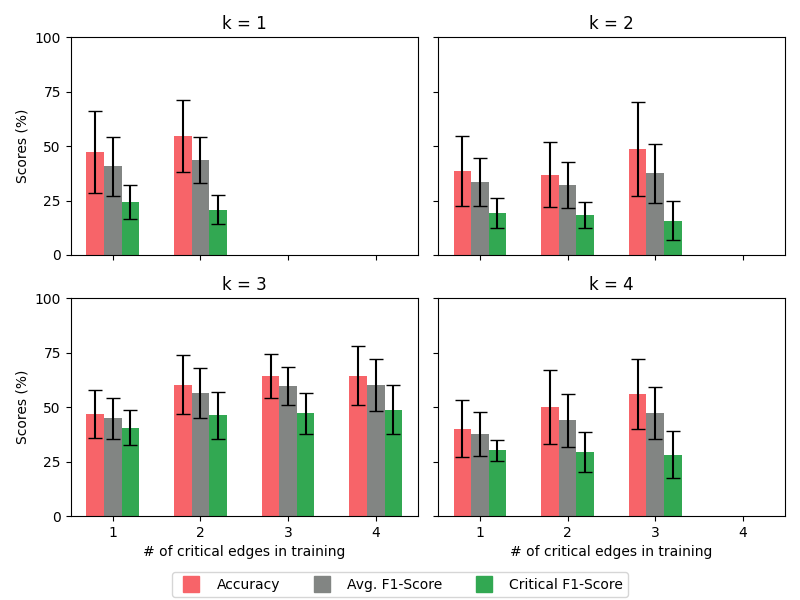
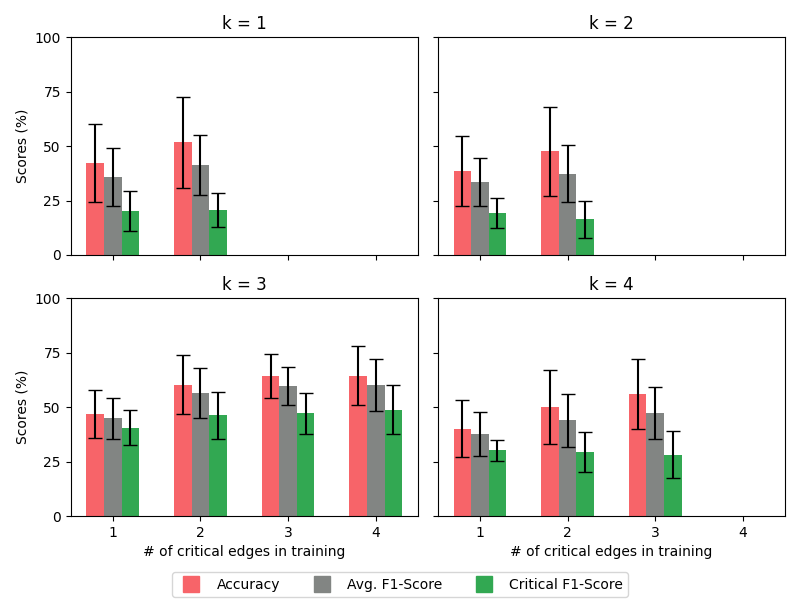
more plots

diff --git a/visualize_by_split_and_k_ieee118_classifier.py b/visualize_by_split_and_k_ieee118_classifier.py
@@ -3,7 +3,7 @@ import numpy as np
 import matplotlib.pyplot as plt
 from matplotlib.lines import Line2D
 
-arq = "a2_ieee39"
+arq = "a2_ieee118"
 metric_cols = ["accuracy", "macro avg_f1-score", "critical_f1-score"]
 legends = ["Accuracy", "Avg. F1-Score", "Critical F1-Score"]
 colors = [
@@ -19,42 +19,42 @@ df = pd.read_csv(f"./result_{arq}.csv", index_col=0)
 fig, axs = plt.subplots(2, 2, figsize=(8, 6), sharex=True, sharey=True)
 
 # Edges by split table
-# 0.1: [1, 1, 1, 1]
-# 0.2: [1, 1, 2, 1]
-# 0.3: [1, 1, 2, 2]
-# 0.4: [2, 2, 3, 2]
-# 0.5: [2, 2, 4, 3]
+# 0.1: [1]
+# 0.2: [1]
+# 0.3: [1]
+# 0.4: [1]
+# 0.5: [1]
 
-# Used for A1 Approach
+# Used for A1 approach
 # splits_by_k = {
-#     1: [0.2, 0.5],
-#     2: [0.1, 0.5],
-#     3: [0.1, 0.2, 0.4, 0.5],
-#     4: [0.1, 0.3, 0.5],
+#     1: [0.1, 0.2, 0.3, 0.4, 0.5],
+#     2: [0.1, 0.2, 0.3, 0.4, 0.5],
+#     3: [0.1, 0.2, 0.5],
+#     4: [0.1, 0.2, 0.5],
 # }
 # labels_by_k = {
-#     1: [1, 2],
-#     2: [1, 2],
-#     3: [1, 2, 3, 4],
+#     1: [1, 2, 3, 4, 5],
+#     2: [1, 2, 3, 4, 5],
+#     3: [1, 2, 3],
 #     4: [1, 2, 3],
 # }
+# xticks = [1, 2, 3, 4, 5]
 
-# Used for A2 Approach
+# Used for A2 approach
 splits_by_k = {
-    1: [0.3, 0.4],
-    2: [0.1, 0.4],
-    3: [0.1, 0.3, 0.4, 0.5],
-    4: [0.2, 0.3, 0.5],
+    1: [0.4],
+    2: [0.1],
+    3: [0.5],
+    4: [0.2],
 }
 labels_by_k = {
-    1: [1, 2],
-    2: [1, 2],
-    3: [1, 2, 3, 4],
-    4: [1, 2, 3],
+    1: [1],
+    2: [1],
+    3: [1],
+    4: [1],
 }
 
-
-xticks = [1, 2, 3, 4]
+xticks = [1]
 for i, k in enumerate([1, 2, 3, 4]):
     ix = i // 2
     iy = i % 2
@@ -66,7 +66,6 @@ for i, k in enumerate([1, 2, 3, 4]):
         ]
         means = [v.mean() for v in values]
         errors = [v.std() for v in values]
-
         bar_pos = np.array(labels_by_k[k]) - width / 2.0
         axs[ix, iy].bar(
             bar_pos + (j + 0.5) * width / len(metric_cols),
@@ -102,7 +101,6 @@ fig.legend(
 )
 plt.subplots_adjust(bottom=0.140)
 plt.savefig(f"visual_{arq}_metrics.png")
-
 
 for i, k in enumerate([1, 2, 3, 4]):
     labels = labels_by_k[k]

diff --git a/visualize_by_split_and_k_ieee300_classifier.py b/visualize_by_split_and_k_ieee300_classifier.py
@@ -3,7 +3,7 @@ import numpy as np
 import matplotlib.pyplot as plt
 from matplotlib.lines import Line2D
 
-arq = "a2_ieee39"
+arq = "a2_ieee300"
 metric_cols = ["accuracy", "macro avg_f1-score", "critical_f1-score"]
 legends = ["Accuracy", "Avg. F1-Score", "Critical F1-Score"]
 colors = [
@@ -19,42 +19,42 @@ df = pd.read_csv(f"./result_{arq}.csv", index_col=0)
 fig, axs = plt.subplots(2, 2, figsize=(8, 6), sharex=True, sharey=True)
 
 # Edges by split table
-# 0.1: [1, 1, 1, 1]
-# 0.2: [1, 1, 2, 1]
-# 0.3: [1, 1, 2, 2]
-# 0.4: [2, 2, 3, 2]
-# 0.5: [2, 2, 4, 3]
+# 0.1: [1]
+# 0.2: [1]
+# 0.3: [1]
+# 0.4: [1]
+# 0.5: [1]
 
-# Used for A1 Approach
+# Used for A1 approach
 # splits_by_k = {
-#     1: [0.2, 0.5],
-#     2: [0.1, 0.5],
-#     3: [0.1, 0.2, 0.4, 0.5],
-#     4: [0.1, 0.3, 0.5],
+#     1: [0.1, 0.2, 0.3, 0.4, 0.5],
+#     2: [0.1, 0.2, 0.3, 0.4, 0.5],
+#     3: [0.1, 0.2, 0.5],
+#     4: [0.1, 0.2, 0.5],
 # }
 # labels_by_k = {
-#     1: [1, 2],
-#     2: [1, 2],
-#     3: [1, 2, 3, 4],
+#     1: [1, 2, 3, 4, 5],
+#     2: [1, 2, 3, 4, 5],
+#     3: [1, 2, 3],
 #     4: [1, 2, 3],
 # }
+# xticks = [1, 2, 3, 4, 5]
 
-# Used for A2 Approach
+# Used for A2 approach
 splits_by_k = {
-    1: [0.3, 0.4],
-    2: [0.1, 0.4],
-    3: [0.1, 0.3, 0.4, 0.5],
-    4: [0.2, 0.3, 0.5],
+    1: [0.4],
+    2: [0.1],
+    3: [0.5],
+    4: [0.2],
 }
 labels_by_k = {
-    1: [1, 2],
-    2: [1, 2],
-    3: [1, 2, 3, 4],
-    4: [1, 2, 3],
+    1: [1],
+    2: [1],
+    3: [1],
+    4: [1],
 }
 
-
-xticks = [1, 2, 3, 4]
+xticks = [1]
 for i, k in enumerate([1, 2, 3, 4]):
     ix = i // 2
     iy = i % 2
@@ -66,7 +66,6 @@ for i, k in enumerate([1, 2, 3, 4]):
         ]
         means = [v.mean() for v in values]
         errors = [v.std() for v in values]
-
         bar_pos = np.array(labels_by_k[k]) - width / 2.0
         axs[ix, iy].bar(
             bar_pos + (j + 0.5) * width / len(metric_cols),
@@ -102,7 +101,6 @@ fig.legend(
 )
 plt.subplots_adjust(bottom=0.140)
 plt.savefig(f"visual_{arq}_metrics.png")
-
 
 for i, k in enumerate([1, 2, 3, 4]):
     labels = labels_by_k[k]

diff --git a/visualize_by_split_and_k_itaipu11_classifier.py b/visualize_by_split_and_k_itaipu11_classifier.py
@@ -3,7 +3,7 @@ import numpy as np
 import matplotlib.pyplot as plt
 from matplotlib.lines import Line2D
 
-arq = "a2_itaipu11"
+arq = "a1_itaipu11"
 metric_cols = ["accuracy", "macro avg_f1-score", "critical_f1-score"]
 legends = ["Accuracy", "Avg. F1-Score", "Critical F1-Score"]
 colors = [
@@ -27,22 +27,22 @@ fig, axs = plt.subplots(2, 2, figsize=(8, 6), sharex=True, sharey=True)
 # 0.5: [2, 2, 3, 2]
 
 # Used for A1 Approach
-# splits_by_k = {1: [0.3, 0.5], 2: [0.2, 0.5], 3: [0.1, 0.4, 0.5], 4: [0.1, 0.5]}
-# labels_by_k = {
-#     1: [1, 2],
-#     2: [1, 2],
-#     3: [1, 2, 3],
-#     4: [1, 2],
-# }
-
-# Used for A2 approach
-splits_by_k = {1: [0.1, 0.5], 2: [0.4, 0.5], 3: [0.2, 0.4, 0.5], 4: [0.2, 0.5]}
+splits_by_k = {1: [0.3, 0.5], 2: [0.2, 0.5], 3: [0.1, 0.4, 0.5], 4: [0.1, 0.5]}
 labels_by_k = {
     1: [1, 2],
     2: [1, 2],
     3: [1, 2, 3],
     4: [1, 2],
 }
+
+# Used for A2 approach
+# splits_by_k = {1: [0.1, 0.5], 2: [0.4, 0.5], 3: [0.2, 0.4, 0.5], 4: [0.2, 0.5]}
+# labels_by_k = {
+#     1: [1, 2],
+#     2: [1, 2],
+#     3: [1, 2, 3],
+#     4: [1, 2],
+# }
 
 
 xticks = [1, 2, 3]
@@ -98,3 +98,21 @@ fig.legend(
 )
 plt.subplots_adjust(bottom=0.140)
 plt.savefig(f"visual_{arq}_metrics.png")
+
+for i, k in enumerate([1, 2, 3, 4]):
+    labels = labels_by_k[k]
+    lines = [[str(lab)] for lab in labels]
+    for j, col in enumerate(metric_cols):
+        values = [
+            df.loc[(df[k_col] == k) & (df[split_col] == s), col]
+            for s in splits_by_k[k]
+        ]
+        means = [v.mean() for v in values]
+        errors = [v.std() for v in values]
+        for m in range(len(lines)):
+            lines[m].append(
+                f" ${100 * means[m]:.1f} \\pm {100 * errors[m]:.1f}$ "
+            )
+    print(f"k = {k}")
+    for line in lines:
+        print("&".join(line) + " \\\\")

diff --git a/visualize_by_split_and_k_ieee57_classifier.py b/visualize_by_split_and_k_ieee57_classifier.py
@@ -23,20 +23,20 @@ fig, axs = plt.subplots(2, 2, figsize=(8, 6), sharex=True, sharey=True)
 # 0.2: [2, 2, 1, 1]
 # 0.3: [3, 3, 2, 1]
 # 0.4: [4, 4, 2, 1]
-# 0.5: [5, 5, 2, 2]
+# 0.5: [5, 5, 3, 2]
 
 # Used for A1 approach
 # splits_by_k = {
 #     1: [0.1, 0.2, 0.3, 0.4, 0.5],
 #     2: [0.1, 0.2, 0.3, 0.4, 0.5],
 #     3: [0.1, 0.2, 0.5],
-#     4: [0.1, 0.2, 0.5],
+#     4: [0.2, 0.5],
 # }
 # labels_by_k = {
 #     1: [1, 2, 3, 4, 5],
 #     2: [1, 2, 3, 4, 5],
 #     3: [1, 2, 3],
-#     4: [1, 2, 3],
+#     4: [1, 2],
 # }
 # xticks = [1, 2, 3, 4, 5]
 
@@ -45,13 +45,13 @@ splits_by_k = {
     1: [0.1, 0.2, 0.3, 0.4, 0.5],
     2: [0.1, 0.2, 0.3, 0.4, 0.5],
     3: [0.1, 0.2, 0.5],
-    4: [0.1, 0.2, 0.5],
+    4: [0.2, 0.5],
 }
 labels_by_k = {
     1: [1, 2, 3, 4, 5],
     2: [1, 2, 3, 4, 5],
     3: [1, 2, 3],
-    4: [1, 2, 3],
+    4: [1, 2],
 }
 
 xticks = [1, 2, 3, 4, 5]
@@ -101,3 +101,21 @@ fig.legend(
 )
 plt.subplots_adjust(bottom=0.140)
 plt.savefig(f"visual_{arq}_metrics.png")
+
+for i, k in enumerate([1, 2, 3, 4]):
+    labels = labels_by_k[k]
+    lines = [[str(lab)] for lab in labels]
+    for j, col in enumerate(metric_cols):
+        values = [
+            df.loc[(df[k_col] == k) & (df[split_col] == s), col]
+            for s in splits_by_k[k]
+        ]
+        means = [v.mean() for v in values]
+        errors = [v.std() for v in values]
+        for m in range(len(lines)):
+            lines[m].append(
+                f" ${100 * means[m]:.1f} \\pm {100 * errors[m]:.1f}$ "
+            )
+    print(f"k = {k}")
+    for line in lines:
+        print("&".join(line) + " \\\\")
